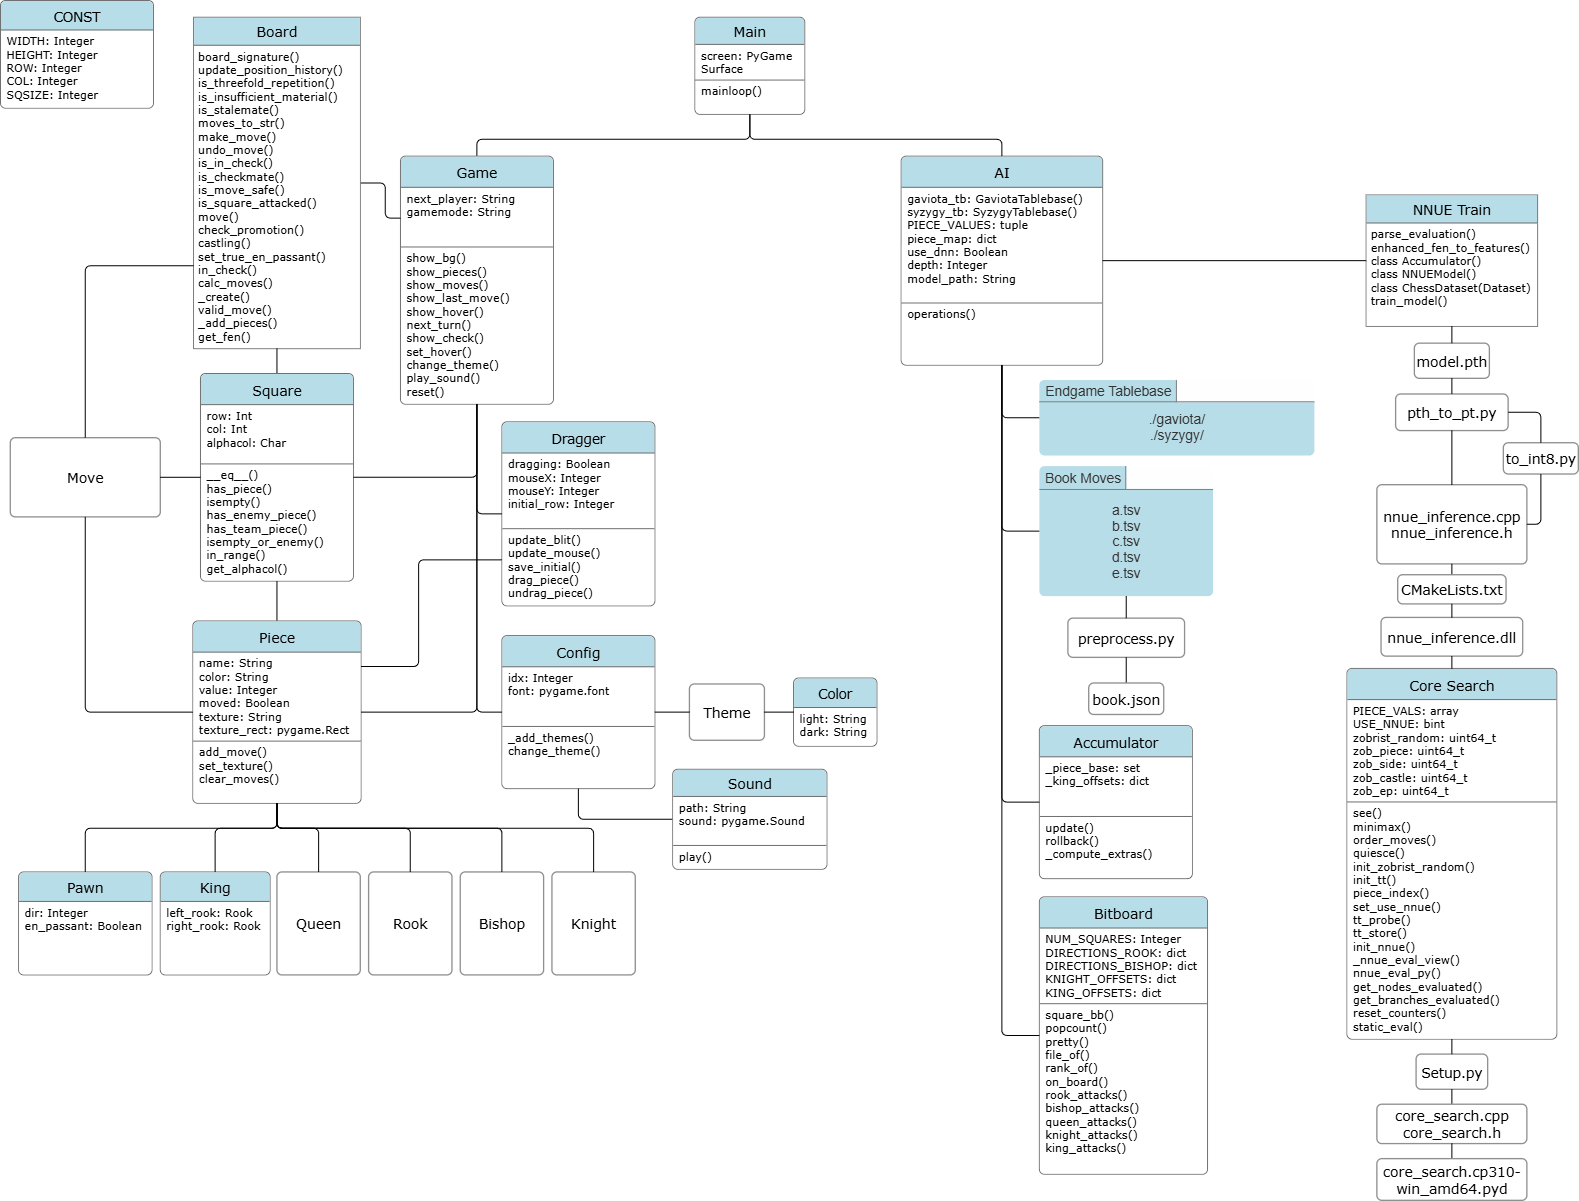
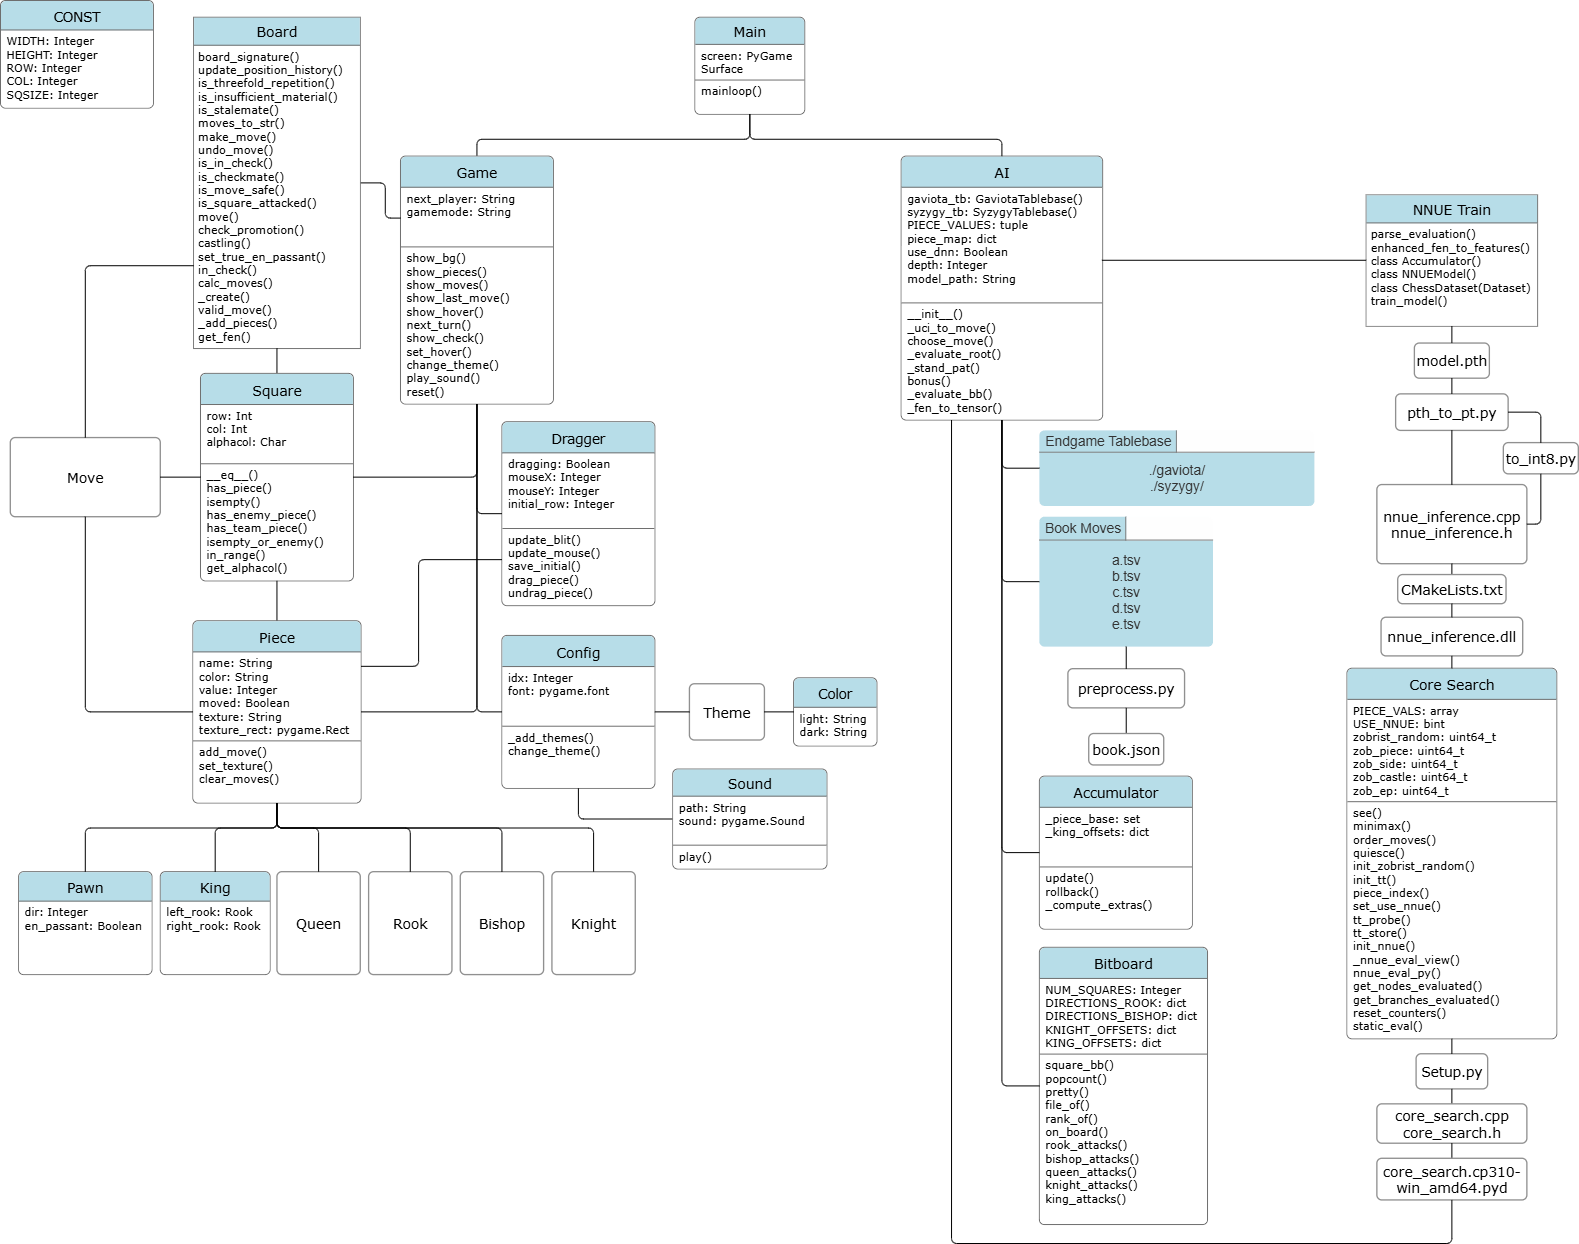
UML Updated and displayed

diff --git a/client/src/App.css b/client/src/App.css
@@ -241,3 +241,4 @@ img[alt="Flowchart"]{width: 800px; object-fit: contain;}
 img[alt="Algorithm"]{width: 800px; object-fit: contain;}
 img[alt="Chess Board"]{width: 800px; object-fit: contain;}
 img[alt="Book Moves"]{width: 800px; object-fit: contain;}
+img[alt="UML"]{width: 800px; object-fit: contain;}

diff --git a/client/public/markdown/chess.md b/client/public/markdown/chess.md
@@ -70,7 +70,7 @@ Mini-Stockfish is a chess engine modeled after the high level architecture of th
 ![Minimax](/markdown/chess-assets/minimax.png)
 
 ### Codebase UML Diagram
-![UML](/markdown/chess-assets/uml.png)
+![UML](/markdown/chess-assets/uml.jpg)
 
 ---
 